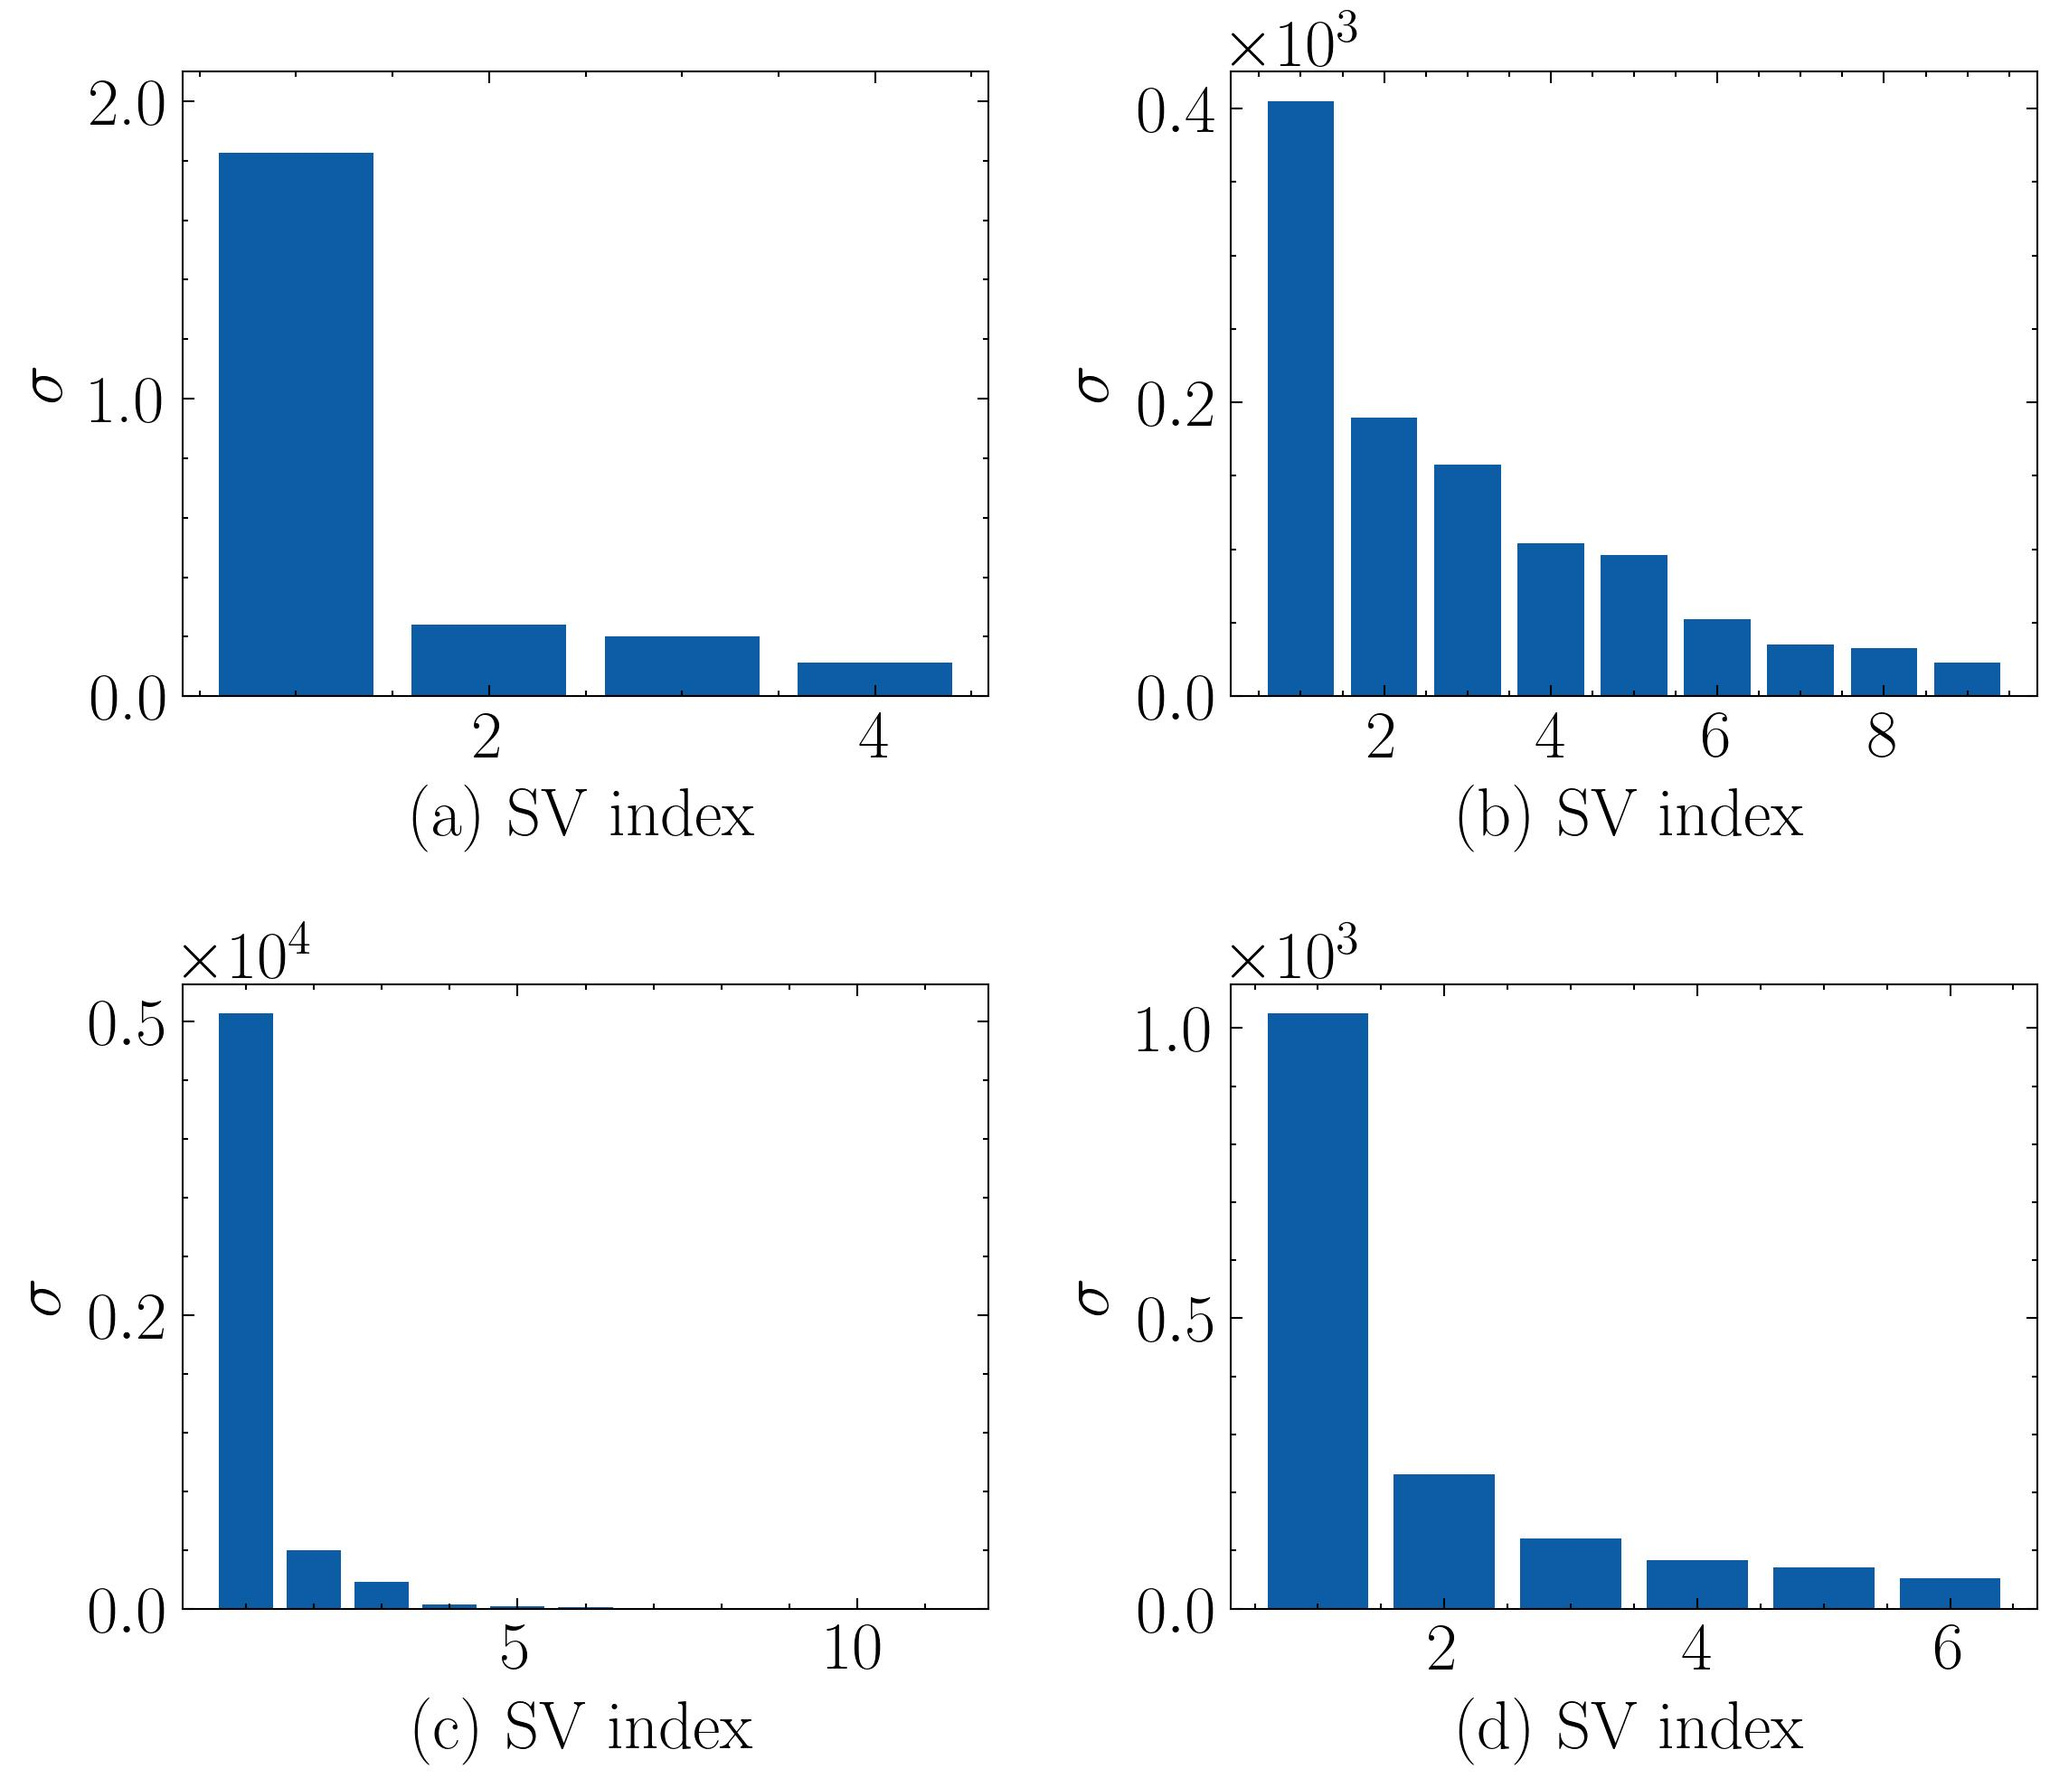
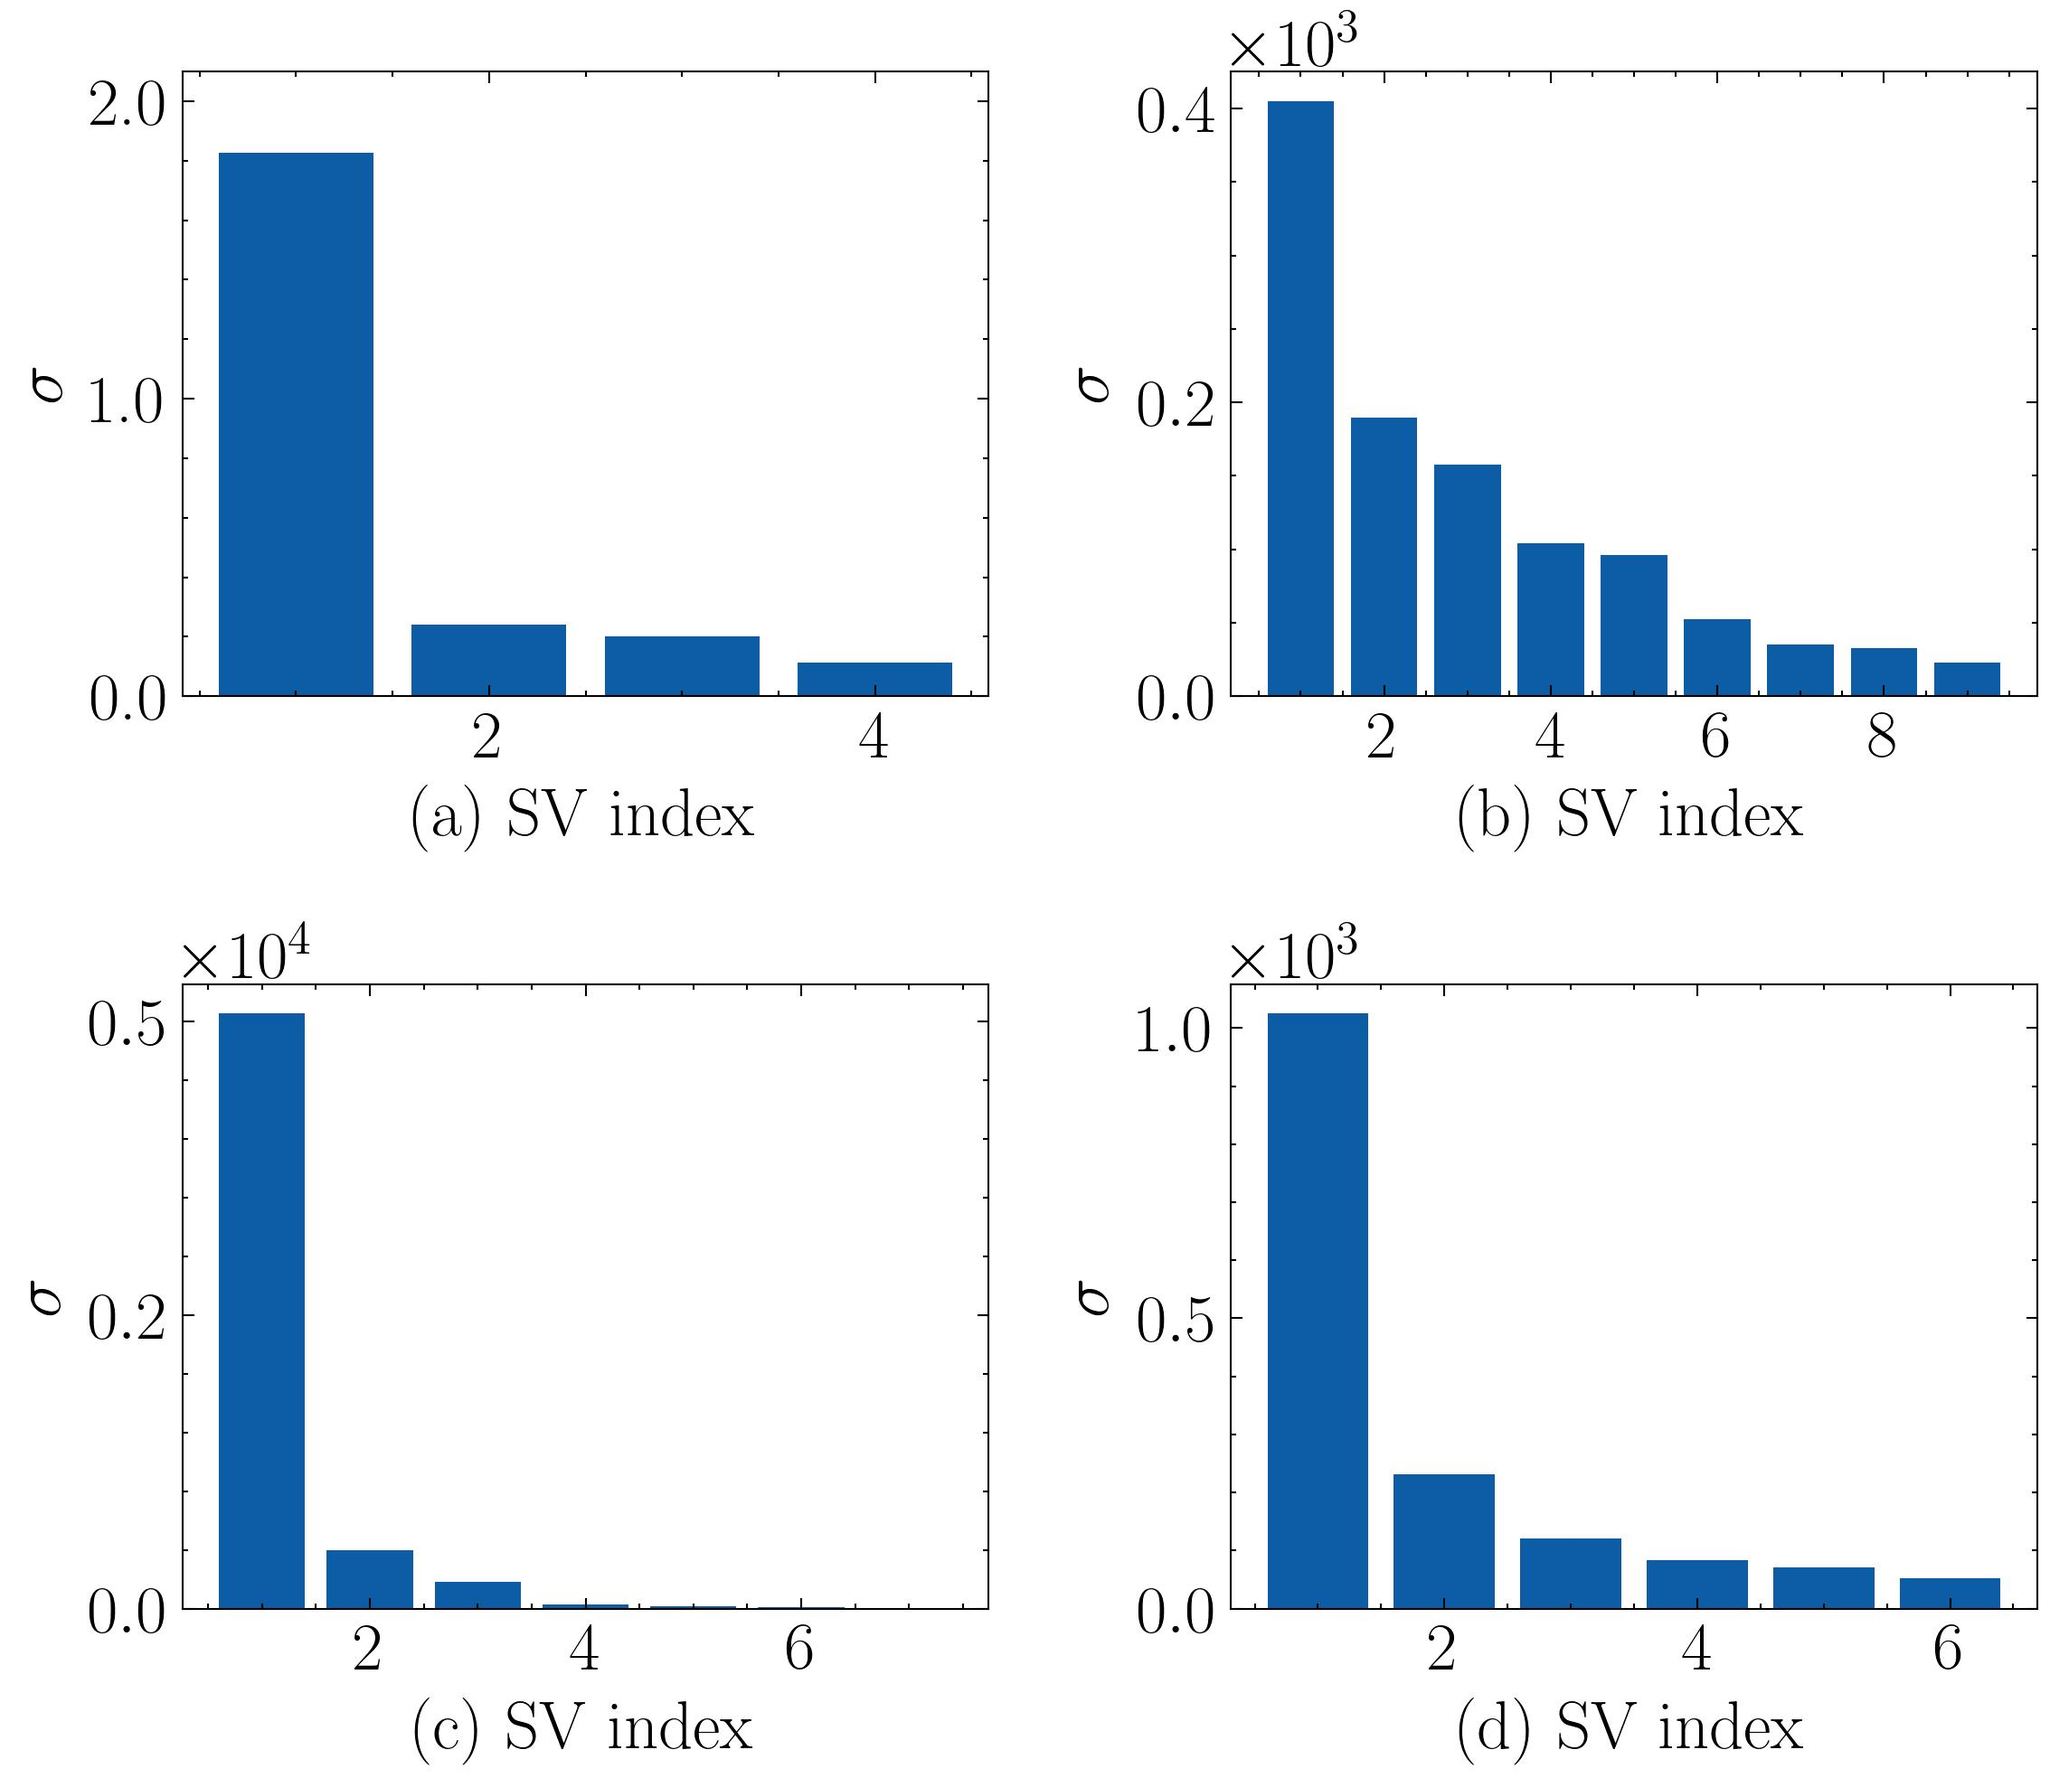
fix: nit in axis label of fig 1

Changed region(s): [[0.1235, 0.5582, 0.3088, 0.9304], [0.3705, 0.8993, 0.4323, 0.9304]]

diff --git a/1_exp_svd_policy_iteration.py b/1_exp_svd_policy_iteration.py
@@ -50,10 +50,11 @@ with plt.style.context(['science'], ['ieee']):
     axes[1].yaxis.set_major_formatter(OOMFormatter(3, "%1.1f"))
     axes[1].ticklabel_format(style = 'sci', axis='y', scilimits=(0,0))
 
-    axes[2].bar(np.arange(1, len(sigma_rental) + 1), sigma_rental)
+    axes[2].bar(np.arange(1, 8), sigma_rental[:7])
     axes[2].set_xlabel("(c) SV index")
     axes[2].set_ylabel("$\sigma$")
     axes[2].set_yticks([0, 2500, 5000])
+    axes[2].set_xticks([2, 4, 6])
     axes[2].yaxis.set_major_formatter(OOMFormatter(4, "%1.1f"))
     axes[2].ticklabel_format(style = 'sci', axis='y', scilimits=(0,0))
 
